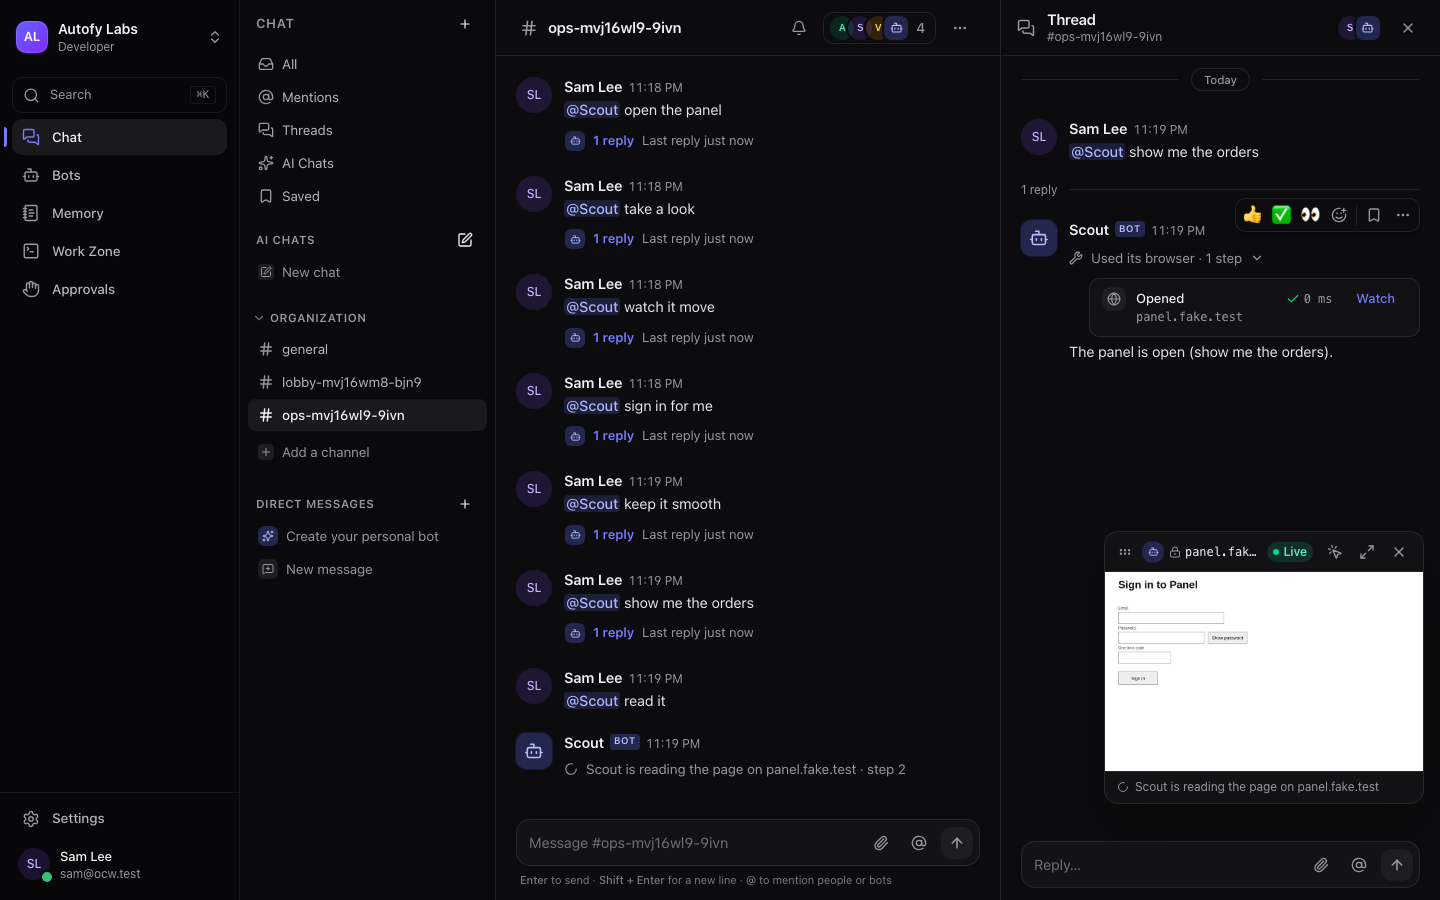
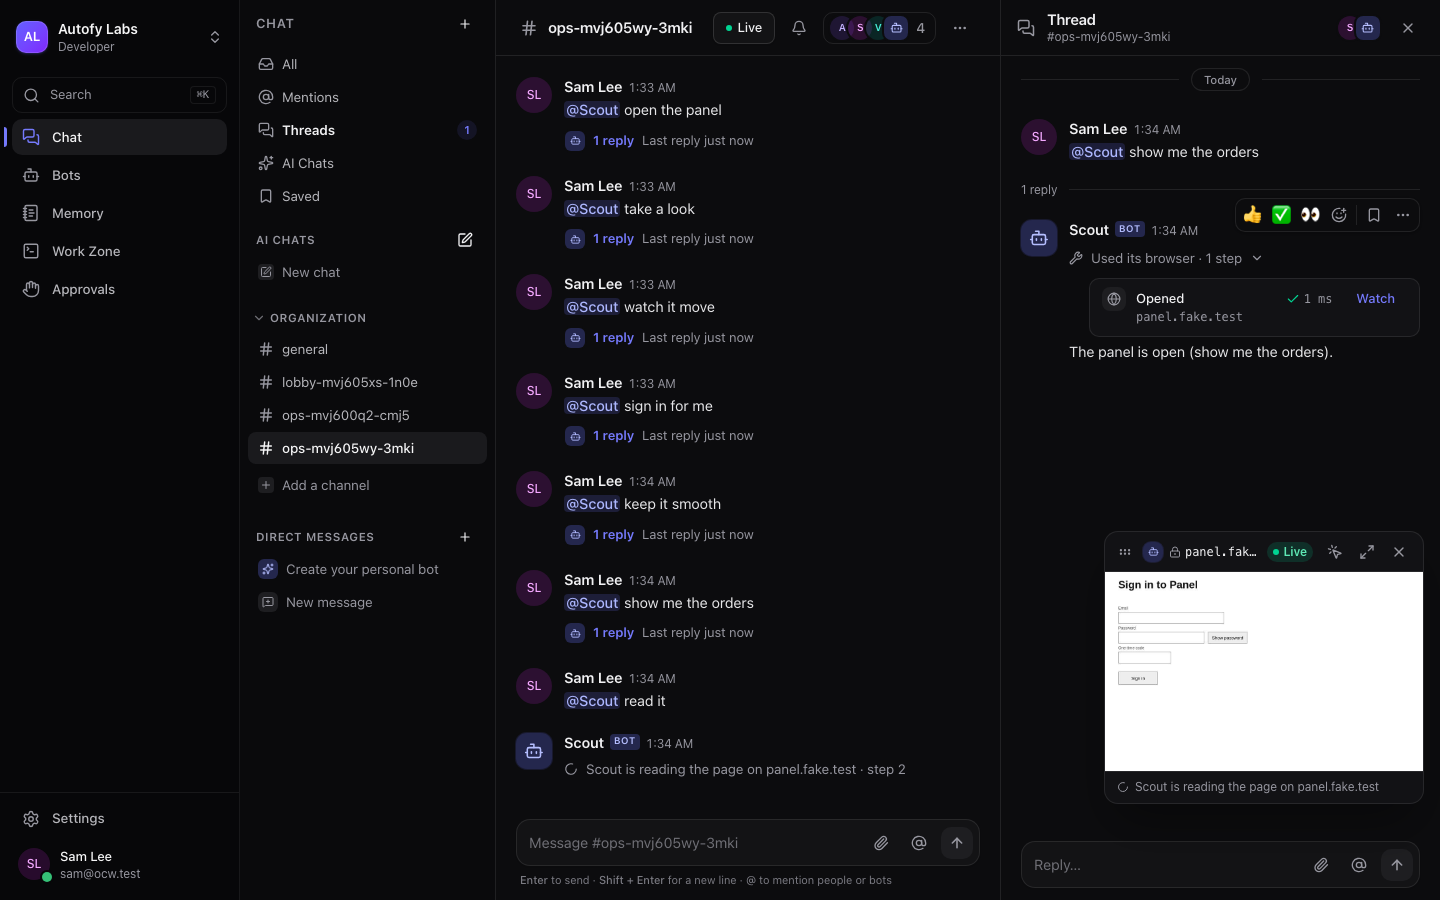
docs(07.8-26): summary and the reviewed sign-in card, phone live view and live chip screenshots

diff --git a/.planning/phases/07.8-bot-sandboxes-plugins-and-live-browser/07.8-26-SUMMARY.md b/.planning/phases/07.8-bot-sandboxes-plugins-and-live-browser/07.8-26-SUMMARY.md
@@ -1,0 +1,306 @@
+---
+phase: 07.8-bot-sandboxes-plugins-and-live-browser
+plan: 26
+subsystem: web
+status: complete
+tags: [web, browser, sign-in, live-view, phone, dock, sheet, takeover, live-chip, privacy, a11y, screenshots, e2e]
+requires:
+  - phase: 07.8-16
+    provides: the live view socket (watch, take, release, resize with mode `phone`, `focus` frames, refused take, per-socket privacy)
+  - phase: 07.8-20
+    provides: the chat activity rows and Watch, `turn.activity`
+  - phase: 07.8-21
+    provides: the `browser` card (AgentCard.browserSignIn, viewerCan sign_in), Not now as the denied decision, hand-back seal
+  - phase: 07.8-22
+    provides: LiveViewProvider, useLiveView().open, live-input mappers, LiveFrame, headers, TakeoverBar, the desktop window and large view
+provides:
+  - "components/browser/sign-in-card-body.tsx: SignInCardBody, SignInPill, signInStatusOf, signInExpiresIn, signInAnnouncement (AgentCardView kind `browser`)"
+  - "components/browser/live-dock.tsx: LiveDock (peek, mini, handle, F6, --live-dock-h), MiniRow"
+  - "components/browser/live-full-sheet.tsx: LiveFullSheet (watching, in control, hidden keyboard input, system Back question)"
+  - "components/browser/live-chip.tsx: LiveChip (one, several with a menu, thread-only, compact)"
+  - "live-input.ts: tapFrames, swipeFrame, softKeyFrames, beforeInputFrames, forwardSoftInput, softInputType, phoneViewport"
+  - "live-store.ts: LiveView.signIn / closeOnRefuse / phoneArea, dock state (ocw:live-dock), signInHandBack"
+  - "api: GET /api/v1/conversations/:id/browsers (browser/conversation-browsers.ts)"
+  - "contracts: ConversationBrowserItem, ConversationBrowserList; AgentCardBrowserSignInLink.requesterName, .decidedAt (additive)"
+  - "fake sandboxd: focus_sensitive writes the `focus` control on open frame streams"
+  - "Semgrep ocw.live-input-logging: also the DOM input (`data`, `value`, `clipboardData`)"
+affects: [07.8-27, 07.8-28, 07.8-29]
+tech-stack:
+  added: []
+  patterns:
+    - "Phone keyboard: a visually hidden input emptied after every forward (beforeinput → frames), type=password on a sensitive focus"
+    - "System Back for a modal sheet: one history entry while open; popstate either minimizes or re-pushes and asks"
+    - "A conversation fact the client cannot derive (open pages) is one resolver-filtered GET, refreshed on turn.activity, focus and a 20 s poll"
+key-files:
+  created:
+    - apps/web/components/browser/sign-in-card-body.tsx
+    - apps/web/components/browser/sign-in-card-body.test.tsx
+    - apps/web/components/browser/live-dock.tsx
+    - apps/web/components/browser/live-full-sheet.tsx
+    - apps/web/components/browser/live-chip.tsx
+    - apps/web/components/browser/phone.test.tsx
+    - apps/api/src/modules/browser/conversation-browsers.ts
+    - apps/api/src/modules/browser/conversation-browsers.int.test.ts
+    - e2e/tests/signin-card.spec.ts
+    - e2e/tests/live-view-phone.spec.ts
+  modified:
+    - apps/web/components/browser/live-view-provider.tsx
+    - apps/web/components/browser/live-frame.tsx
+    - apps/web/components/browser/live-input.ts
+    - apps/web/components/browser/live-store.ts
+    - apps/web/components/browser/live-header.tsx
+    - apps/web/components/browser/takeover-bar.tsx
+    - apps/web/components/browser/live.test.tsx
+    - apps/web/components/chat/agent-card.tsx
+    - apps/web/components/chat/dm-view.tsx
+    - apps/web/components/chat/channel-view.tsx
+    - apps/web/components/chat/thread-panel.tsx
+    - apps/web/components/chat/message-list.tsx
+    - apps/web/components/ai-chat/ai-message.tsx
+    - apps/web/components/shell/app-shell.tsx
+    - apps/api/src/modules/browser/signin.ts
+    - apps/api/src/modules/browser/routes.ts
+    - packages/contracts/src/agent-cards.ts
+    - packages/contracts/src/browser.ts
+    - packages/contracts/src/browser.test.ts
+    - infra/fake-model/fake-sandboxd.mjs
+    - infra/fake-model/fake-sandboxd.test.mjs
+    - e2e/support/sandbox.ts
+    - .semgrep/rules.yml
+    - .semgrep/tests/live-input-logging.ts
+key-decisions:
+  - "The live chip needs a server fact (which pages of this conversation are open and watchable): GET /conversations/:id/browsers, decided per page by the resolver's browser.watch, 404 for a conversation the caller does not read"
+  - "The card names its requester through the sign-in link (requesterName, decidedAt), the same for every reader, so no viewer field reaches realtime"
+  - "A view the card opened closes again when its take is refused (the card stays as it was); a view already open keeps its state"
+  - "The 'Signed in to {host}' toast waits for the card's Signed in (8 s fallback: '{bot} continues.'), held outside the view so Close in control still gets it"
+  - "Below 768 the chip drops the bot avatar and reads '{n}' for several pages; beside an open thread the channel header uses 'Live': the channel's name keeps its room"
+  - "The channel header lists the pages of the channel and its threads; the thread panel only its thread's"
+requirements-completed: [BRW-02, BRW-03, BRW-04]
+duration: "about 1h15 of work (00:38 → 01:52 local), plus two full gates"
+completed: 2026-10-22
+estimate:
+  tokens: 150000
+  tasks: 3
+actuals:
+  tokens: 36700   # chars/4 over the added lines of 707e41e9..9fd9cb22 (146,960 chars, 32 files; PNGs excluded)
+  tasks: 3
+  commits: 3      # feat(api), feat(web) and this docs commit
+---
+
+# Phase 07.8 Plan 26: Sign-in card, phone live view and the live chip Summary
+
+**Sam opens Scout's "Sign in needed" card, presses Open and sign in, signs in himself in the large view (or the
+full-screen sheet on his phone) and hands back; the card turns "Signed in until {date}. Scout continues." with Manage in
+Keychain, and the toast says "Signed in to {host}. Scout continues." On a phone, Watch opens a non-modal dock over the
+chat (peek and mini, the composer still usable) and a full sheet where taps are the page's touches, a hidden keyboard
+input types into the page (and turns into a password field on a password), the page gets a phone viewport, and the
+system Back asks before handing back. Every conversation header shows "Live browser" while a bot's page there is open.**
+
+## Commits
+
+| Task | Commit | Description |
+|---|---|---|
+| (prereq, Rule 2) | `0cce3374` | `feat(api)`: `GET /api/v1/conversations/:id/browsers`, `requesterName` and `decidedAt` on the sign-in link; contracts and their test; `conversation-browsers.int.test.ts` |
+| 1, 2, 3 | `9fd9cb22` | `feat(web)`: the sign-in card body, the dock, the full sheet, the chip, the provider and frame phone branches, the hidden keyboard input; unit tests; the fake's focus control; the Semgrep DOM-input patterns; `signin-card.spec.ts` and `live-view-phone.spec.ts` |
+| — | `docs(07.8-26)` | this SUMMARY and the reviewed screenshots |
+
+The three tasks landed in one web commit, as in 22: the provider imports the dock and the sheet, so a Task-1-only tree
+(the card opening the large view) would not build without the phone files. The API prerequisite is its own commit.
+
+## Gate results (exact)
+
+| Tree | `pnpm typecheck --force` | `pnpm verify` |
+|---|---|---|
+| before `0cce3374` (whole working tree) | exit 0, 10/10 tasks, 0 cached | exit 0: lint (4 pre-existing warnings, `apps/local-runtime`), guard semgrep / licenses (1,035) / fields / codeowners ok, **357 files, 5,844 tests** |
+| before `9fd9cb22` (after the Semgrep rule and the last spec edits) | exit 0, 10/10 tasks, 0 cached | exit 0: same lint warnings, guard ok, **357 files, 5,844 tests** |
+
+Plan verify commands:
+
+- `vitest --project web apps/web/components/browser`: **4 files, 68 tests** (`live.test.tsx` 28, `browser.test.tsx` 18,
+  `phone.test.tsx` 12, `sign-in-card-body.test.tsx` 10).
+- `vitest --project unit packages/contracts/src/browser.test.ts`: 18 passed (2 new).
+- `vitest --project integration browser/conversation-browsers.int.test.ts`: **5 passed**.
+- `node --test infra/fake-model/fake-sandboxd.test.mjs`: **34 passed** (1 new).
+- `node scripts/guard/run.mjs --rule-tests`: ok (live-input-logging fixture with the 5 new DOM-input lines).
+
+Isolated e2e (`scripts/e2e-isolated.sh`, fake sandboxd; a `.env` symlink existed only for these runs, never read, removed):
+
+| Run | Scope | Result |
+|---|---|---|
+| 1 | `--rebuild-web signin-card --project=desktop` | tracer, Not now, expired passed; the states page failed (the billing card was Stopped by a later page, not waiting) |
+| 2 | `signin-card --project=desktop` | **6 passed** (states page shows the server's expired shape) |
+| 3 | `--rebuild-web live-view-phone signin-card live-view --project=mobile` | signin-card 5/5 on mobile; dock test failed: the handle's swipe lost its pointer (fixed: pointer capture) |
+| 4–5 | `live-view-phone --project=mobile` | the trap check saw Base UI's focus guard, then a transient body focus (the check now waits for the trap to settle and requires the first control to come round twice) |
+| 6 | same | the chip's phone text read hidden spans (`useInnerText`) |
+| 7 | same | **6 passed** |
+| 8 | `--rebuild-web live-view-phone signin-card live-view` (both projects, screenshots) | **23 passed, 10 skipped** (phone-only on desktop, 22's desktop-only on mobile) |
+| 9 | same, after the card-header wrap, the compact chip and the single-chip captures | **23 passed, 10 skipped** (2.3 min) |
+| 10 | same, after the first-turn close was dropped from the dock test | **23 passed, 10 skipped** (2.2 min) |
+
+22's `live-view.spec.ts` (7 desktop tests: tracer, control, drag, takeover privacy and sentinel, 8 fps performance,
+axe and screenshots) passes in runs 8–10: the desktop window and large view are unchanged.
+
+RED evidence: the contract tests failed first (2 of 18: no `requesterName`, no `ConversationBrowserItem`); the
+integration test failed first (4 of 5; the 404 case passed before the route existed). The web card tests were written
+after the component and proven by mutation (the sign-in branch off: 5 of 10 fail; restored). The fake's focus test
+failed first (no control on the stream). The Semgrep rule missed `console.log(e.data)` in the new sheet before its
+extension and catches it after (`ocw.live-input-logging apps/web/components/browser/live-full-sheet.tsx:263`, reverted).
+
+Acceptance greps:
+
+- `SignInCardBody` in `agent-card.tsx`: 3 lines.
+- `Open and sign in|Not now|Only .* can sign in here` in `sign-in-card-body.tsx`: 6.
+- `"password"` in `live-frame.tsx` / `live-full-sheet.tsx`: 1 line (the sheet's doc comment). The switch itself is
+  `softInputType` in `live-input.ts` (`type={softInputType(view.sensitive)}` in the sheet), unit- and e2e-tested.
+- `LiveChip` in `dm-view.tsx`, `channel-view.tsx`, `thread-panel.tsx`: 6 lines.
+- `ls screenshots/live-*-390*.png signin-card-*.png live-chip-*.png | wc -l`: **30**.
+
+## What the tests prove
+
+- **Sign-in tracer (both widths):** the card shows "Sign-in", "Created by the workspace", "Sign-in needed", the page's
+  host (never `/orders?id=7`), the reason in curly quotes, the assurance and "Expires in 15 min"; Open and sign in opens
+  the large view (desktop) or the full sheet (phone) in control ("You're in control. Scout is paused."), the card reads
+  "Signing in…"; the fake page is signed in; Hand back → toast "Signed in to {host}. Scout continues.", the view back to
+  `live`, takeover off, on a phone the viewport back to 960×600; the card: "Signed in", "Signed in until {date}. Scout
+  continues.", Manage in Keychain → `/settings/keychain#browser-sessions`, "Signed in by Sam Lee".
+- **Not now** → "Skipped", "Sam Lee didn't sign in. Scout was told.", the bot's card-action turn. **Expired** (a fake
+  clock past 15 min) → "Expired", "No one signed in within 15 minutes. Ask Scout again.", no actions. **Refused open**
+  (Sam's other device holds the page) → toast "Someone else is in control right now.", no live view, card unchanged.
+  **Someone else's view** → "Only Sam Lee can sign in here.", no actions.
+- **Phone dock:** Watch → `live-dock` peek (a region, not a dialog; 390 wide, ≈ 340 tall), the composer above it and
+  usable (a message sent), `<main>` padded by the dock's height and back to 0 after Close; swipe down → mini (persisted),
+  Show live view → peek; Expand → `live-full` (modal, Tab stays inside); Back → the dock, same URL.
+- **Phone control:** Take control → takeover bar, ring, hint; the page's viewport is the frame area (`viewportMode:
+  phone`); Show keyboard focuses the hidden input (autocomplete off, spellcheck false); 12 typed characters arrive as 12
+  `text` inputs and Backspace as 2 key events, the input stays empty; `focus_sensitive` turns it into `type="password"`;
+  a tap is touch start + end; Back → "Hand back to Scout?" (Keep control focused, keeps control), Back again → Hand
+  back → `live`, "Scout continues.", viewport 960×600. Typed text appears in no other socket frame, console line or DOM
+  text.
+- **Live chip (both widths):** one page → "Live browser" / "Live", named "Live browser, Scout", opens the window or the
+  dock; two pages in #ops → "2 live browsers" with "Scout · panel.fake.test" and "Scout · crm.fake.test", each opening
+  its page; a page opened in a thread → the thread panel's chip; closed → the chip goes.
+- **Phone privacy:** Alex watches on a phone while Sam controls on desktop → "Private sign-in in progress", "Sam Lee is
+  signing in…", no image, **zero binary frames** for 2.5 s; frames resume after Hand back. A member's signed-in page on
+  a phone (scripted live view) → "Private browsing for Sam Lee", no image.
+- **A11y:** axe (no serious or critical) in light and dark on the card (requester and other), the dock (peek, mini,
+  private), the full sheet (watching, in control) and the chip and its menu; named controls; no sideways scroll at 390;
+  44 px targets under the card, dock, sheet and menu, and the chip itself.
+
+## Screenshots (reviewed with the Read tool against UI-SPEC §1.5, Surface 1b, Surface 2)
+
+All in `screenshots/`, light and `-dark`.
+
+| Screenshot | Verdict |
+|---|---|
+| `signin-card-1440` | **Pass.** Kind row with the badge and the amber "Sign-in needed"; title; Site (lock + mono host) and Why label-left; assurance; timer; footer Not now (ghost) left, Open and sign in (primary) right. The header chip "Live browser" with the bot avatar. |
+| `signin-card-390` | **Pass** (after a fix: the long pill overlapped the badge; the header row now wraps it under the kind and badge). Fields stacked; Open and sign in full width h-11 above Not now. |
+| `signin-card-states-1440` | **Pass.** Signed in (until date, Manage in Keychain, "Signed in by Sam Lee · {time}"), Skipped, Expired, Signing in… with Return to sign-in, in one DM (viewport 1440×1500). |
+| `signin-card-other-1440` | **Pass.** "Only Sam Lee can sign in here." in the footer, no actions; a Stopped card above ("Scout closed the browser."). |
+| `live-dock-peek-390` | **Pass.** Dock over the DM, composer above it, handle, header (avatar, host, Live, Expand, Close), the framed page, the activity line. |
+| `live-dock-mini-390` | **Pass.** One row: host 14/600 mono, activity, Live, chevron up, Close. |
+| `live-full-390` | **Pass.** Back to small view, host, Live, Close; the page fits the width, letterboxed; activity; Take control full width. |
+| `live-control-390` | **Pass.** In control chip, takeover bar, amber ring around the frame area, hint line, Keyboard 44 + Hand back. (The fake draws its fixed 960×600 JPEG; the real agent renders the phone viewport.) |
+| `live-private-390` | **Pass.** Alex's dock: Private chip, lock, "Private sign-in in progress" and the sentence; "Scout is paused." |
+| `live-chip-1440`, `live-chip-390` | **Pass** (390 after a fix: the "2 live" chip squeezed the channel title to one letter; below 768 it is now "● 2"). The open menu with both pages. |
+| `live-chip-one-1440`, `live-chip-one-390` | **Pass.** "Live browser" with the avatar / "Live" in the DM header. |
+| 22's `live-window`, `live-expanded`, `live-control`, `live-control-idle` (1440, re-captured by the same run) | **Pass.** Unchanged window and large view; the #ops header now shows the chip ("Live" beside the open thread). |
+
+## WINDOWS entries naming 07.8-26
+
+None open names 07.8-26. Related, not closed here: #280 (desktop IME, 22) — the phone's hidden input is the pattern a
+desktop fix could reuse (candidate below); #270 (the shared sheet's 32 px close) — the full sheet renders its own 44 px
+Close instead.
+
+## Deviations from Plan
+
+### Auto-fixed and added (Rules 1–3)
+
+1. **[Rule 2] API route outside `files_modified`.** "While a watchable context of that conversation is open" is a server
+   fact the web cannot derive (an idle stop closes a page without any chat event): `GET /api/v1/conversations/:id/browsers`
+   (`browser/conversation-browsers.ts`, registered from `routes.ts`), readable conversation or 404 (hidden = missing),
+   `browser.watch` per page as the live view decides it. Tested for readers, threads, non-readers, another organization
+   (404, never an empty list) and a member-session page (its member only).
+2. **[Rule 2] `requesterName` and `decidedAt` on the sign-in link** (contracts, additive): every reader's card needs the
+   requester's name ("Only {person} can sign in here.", "{person} signed in.") and the decision time ("Signed in by …
+   · {time}"); the card carried neither.
+3. **[Rule 2] Semgrep `ocw.live-input-logging` now covers the DOM input** (`$X.data`, `$X.value`,
+   `$X.clipboardData`): a `console.log(e.data)` in the new keyboard input was not caught before. Fixture lines added;
+   no false positive in the rule's paths.
+4. **[Rule 2] The fake sandboxd writes the `focus` control** on open frame streams on `focus_sensitive`, as the agent
+   does, so the password switch is proven end to end (fake test added).
+5. **[Rule 1] Card header at 390:** the "Sign-in needed" pill overlapped the workspace badge; the sign-in card's header
+   row wraps (other cards untouched).
+6. **[Rule 1] Dock handle swipe** lost the pointer once it left the handle: pointer capture.
+7. **[Rule 3] Wiring outside the list:** `AgentCardView` gets the posting bot (`author`, from `message-list.tsx` and
+   `ai-message.tsx`) so the card can open its live view; `app-shell.tsx` pads `<main>` with `--live-dock-h`;
+   `takeover-bar.tsx` gets a `phone` variant (no keyboard hint); `live-header.tsx` exports `IconButton`, `StateChip`,
+   `Where` and takes `iconClassName`; `e2e/support/sandbox.ts` gains `signedIn(contextId)`; `live.test.tsx`'s view
+   helper gets the three new view fields.
+
+### Plan text and UI-SPEC vs. what was built
+
+8. **Chip below 768:** one page reads "Live" (as specified, without the avatar); several read "● {n}" (named "{n} live
+   browsers"); beside an open thread the channel header uses "Live". Otherwise the channel's title collapsed to a letter
+   at 390 and to "ops-mvj…" at 1440 with a thread open.
+9. **Channel header scope:** the channel's chip lists the pages of the channel and of its threads (a channel mention's
+   page lives in its thread); the thread panel lists only its thread's.
+10. **Refused open:** a view the card opened closes again with the toast (the UI-SPEC's "no live view state change");
+    a view that was already open stays as it was.
+11. **Countdown under a minute** reads "Expires in {n} s" (the UI-SPEC gives the minute form only); the announcement
+    region says "This sign-in expires in 5 minutes." / "… 1 minute." once per mark.
+12. **In control on a phone** the header hides "Back to small view" (as the desktop hides Minimize in control); the
+    system Back asks instead.
+13. **"Pinch to zoom"** is the browser's own page zoom over the frame (`touch-action: pinch-zoom`); taps map through the
+    zoom. A swipe is sent as a scroll at its start (not specified; needed to reach a field below the fold).
+14. **The dock handle** is a 44 px target centred on the 20 px handle area (it extends past the dock's top edge).
+15. **Two screenshots use a rewritten list** (`page.route`): `signin-card-other-1440` (no one but the requester can
+    read a sign-in DM; the view as another reader gets it) and the Expired card of `signin-card-states-1440` (15 minutes
+    cannot pass on the server in a test; the client's own expiry is proven separately under a fake clock).
+16. **Member-session privacy on a phone** is shown through the scripted live view (the resolver's decision is proven in
+    16's integration tests and in `conversation-browsers.int`); the takeover privacy at 390 runs on the real stack.
+17. **22's desktop screenshots were re-captured** by the plan's own e2e run (they now show the chip); reviewed.
+
+No permission check, RLS policy, approval gate or existing assertion was weakened. Existing UI and behaviour are kept:
+the desktop window and large view are unchanged (22's spec green), the generic and 07.5 cards render as before (`agent-card.test.tsx`'s
+75 tests and the new "ordinary card is unchanged" case).
+
+## Known Stubs
+
+None. The AI chat header has no live chip (the plan names the DM, channel and thread headers only).
+
+## Threat Flags
+
+| Flag | File | Description |
+|---|---|---|
+| threat_flag: endpoint | apps/api/src/modules/browser/conversation-browsers.ts | New `GET /api/v1/conversations/:id/browsers` (authz user): readable conversation or 404, `browser.watch` per page, host and bot only. Tested for tenant isolation |
+
+Register coverage: T-07.8-26-01 (hidden input `password`, emptied after every forward; e2e + unit), T-07.8-26-02 (host
+from the link, reason quoted plain text; unit test with markup in the reason), T-07.8-26-03 (zero frames at 390 during a
+takeover; member-session placeholder), T-07.8-26-04 (Back asks; e2e).
+
+## Broken-window candidates (not written to WINDOWS.md, as instructed)
+
+1. **deviation (low), web `components/browser/live-full-sheet.tsx`: IME on the phone keyboard input.** A composition
+   (Android keyboards compose each word) sits in the hidden input until `compositionend`, then is sent whole and
+   cleared; a password field has no IME. Same family as #280 (desktop IME), which the hidden-input pattern could close.
+2. **deviation (low), web `components/browser/live-chip.tsx`: freshness.** No realtime event for a page that opens or
+   closes: the chip refreshes on `turn.activity`, focus and every 20 s, so an idle-stopped page can show for up to 20 s
+   (opening it shows Ended).
+3. **deviation (low), web `components/browser/activity-step.tsx` (20): `ocw_browser_close` with no page** renders a
+   "Blocked: a page" step, which reads like a refusal of something real.
+4. **todo (low), web `components/chat/channel-view.tsx`: the channel header at 390 is tight** even without the chip
+   (presence, bell, members and menu leave the title about 85 px).
+5. **unrun-verify (low), infra `fake-sandboxd.mjs`: the phone viewport** is proven by the fake's resize stats only; its
+   frames stay a fixed 960×600 JPEG. The real agent's phone emulation is 07.8-24's brw smoke.
+6. **todo (low), web: no live chip in the AI chat header** (unshared AI chats can hold a sign-in page).
+7. **Pre-existing:** the 4 Biome warnings in `apps/local-runtime`.
+
+## Self-Check: PASSED
+
+- FOUND: the 10 created files and the 24 modified files of `key-files` (`git show --stat 0cce3374 9fd9cb22`).
+- FOUND: commits `0cce3374` and `9fd9cb22` on `wt/07.8-26`; neither deletes a file.
+- FOUND: 30 `live-*-390*`, `signin-card-*` and `live-chip-*` screenshots (the setup spec's `setup-*` captures removed).
+- STATE.md, ROADMAP.md, REQUIREMENTS.md and the WINDOWS ledger were not edited. Nothing was pushed or merged.
+- The `.env` symlink created for the e2e runs was removed; no `.env` was read. Only my own processes were started or
+  stopped (no `pkill`). The demo (ports 3000/4000, compose `t3code-81d72154` beyond the harness's `ocw_e2e` database,
+  `ocw-demo-*`, `:local` images, `~/.ocw-demo`, `~/.ocw`) was not touched.
